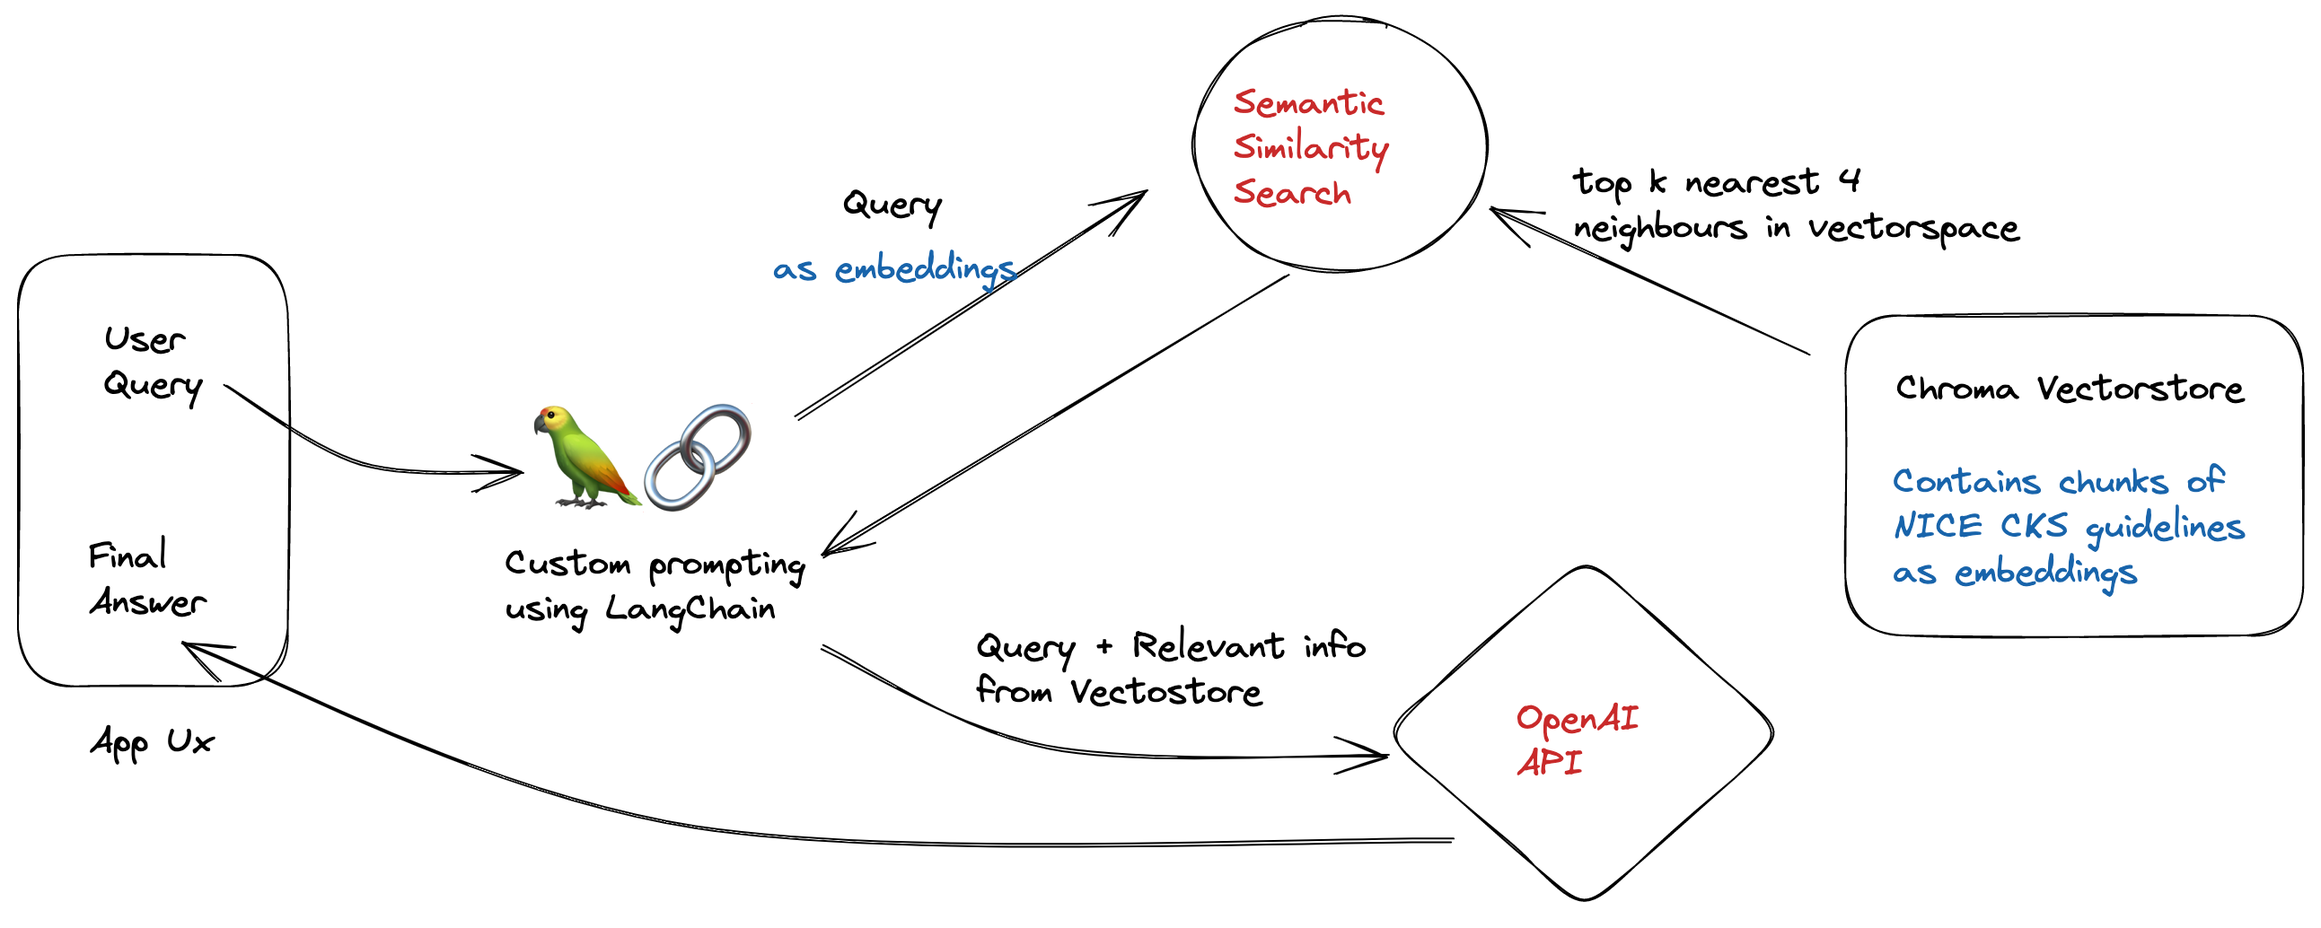
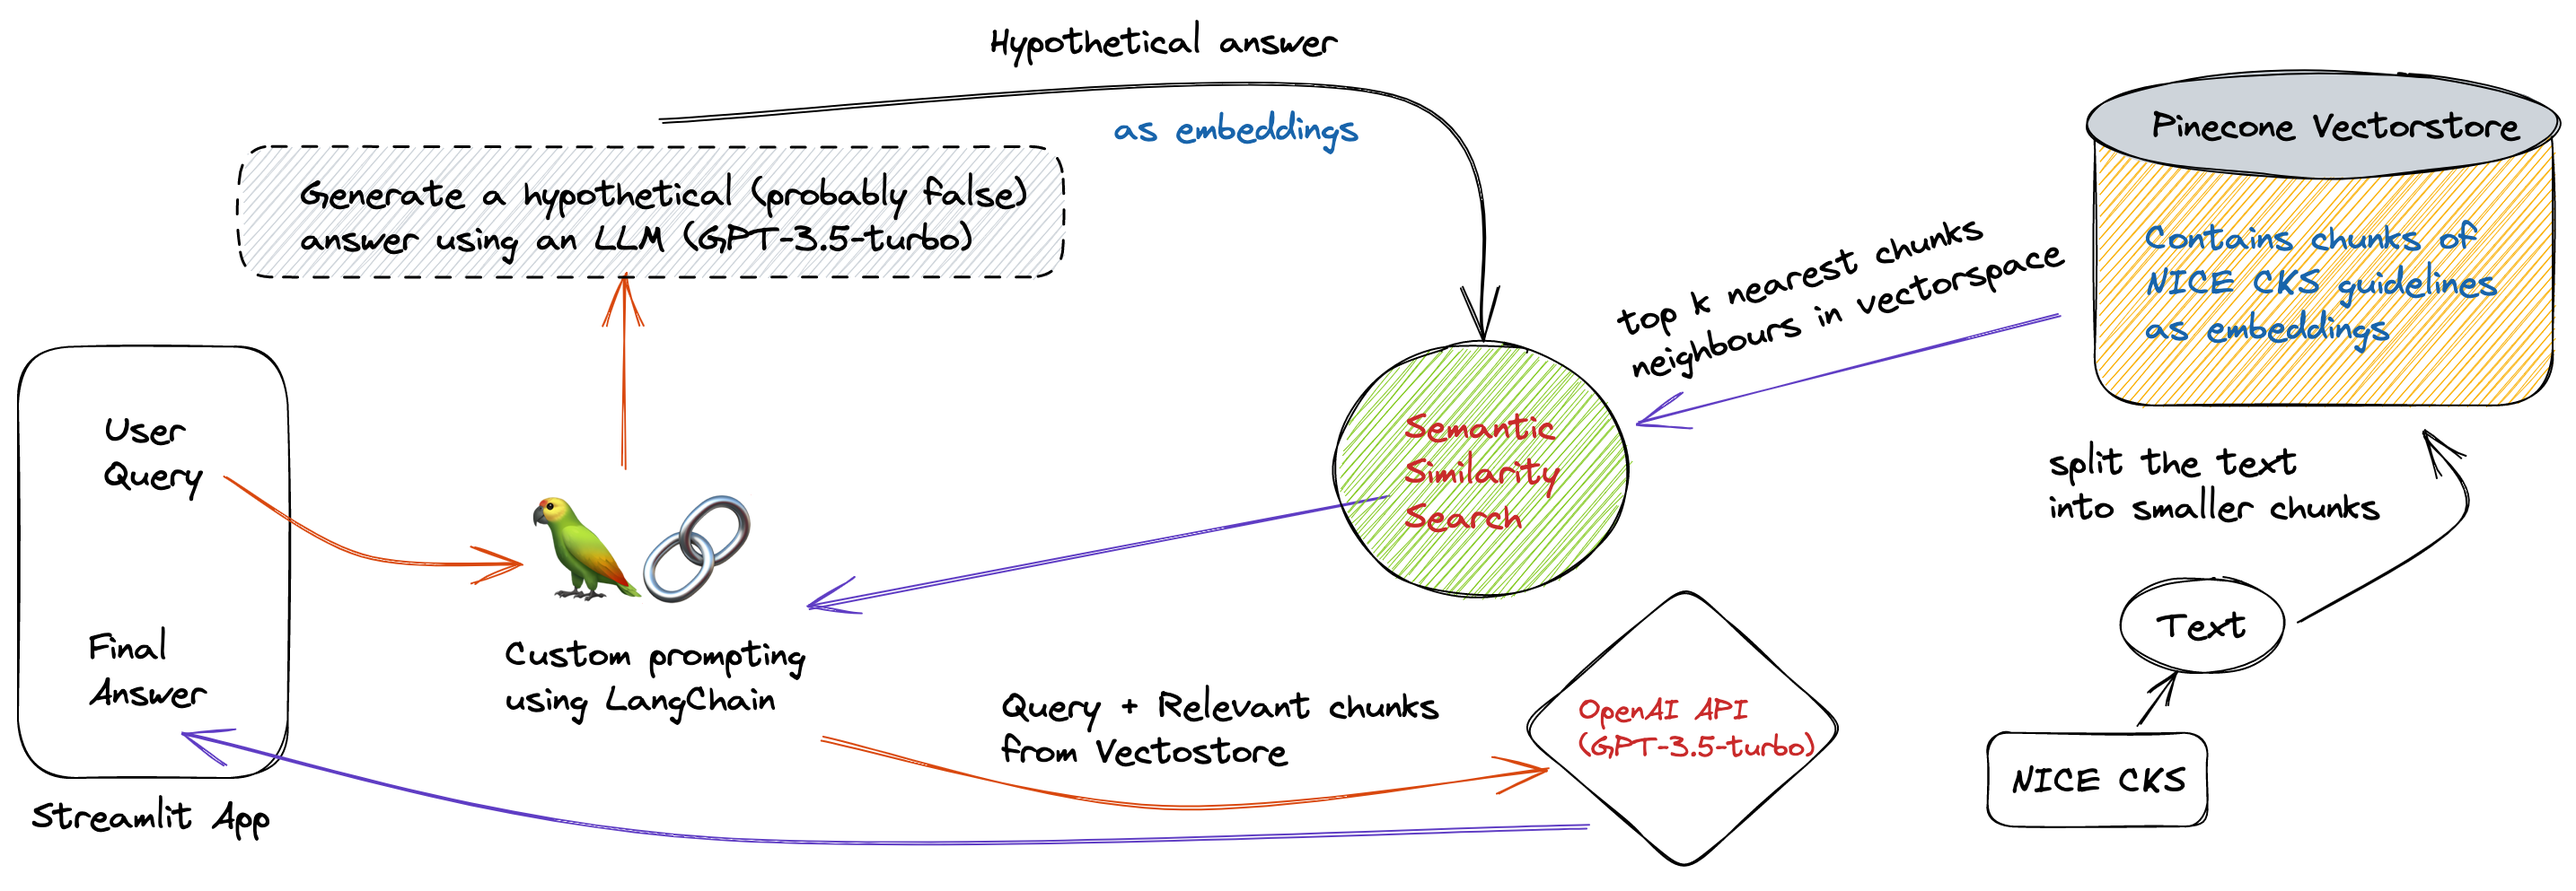
Update Readme & Image
Implemented HYDE and improved Readme

diff --git a/README.md b/README.md
@@ -27,10 +27,17 @@ To deploy this project locally, ensure that python 3.10 is installed run
 ```
 ## 📚 Technical description
 
+📄 The app implements the following academic papers:
+
+- [In-Context Retrieval-Augmented Language Models](https://arxiv.org/abs/2302.00083) aka **RALM**
+  - The idea of retrieval augmented generation is that when given a question you first do a retrieval step to fetch any relevant documents (in this case, [NICE Clinical Knowledge Summaries](https://cks.nice.org.uk/)). You then pass those documents, along with the original question, to the language model and have it generate a response
+- [Precise Zero-Shot Dense Retrieval without Relevance Labels](https://arxiv.org/abs/2212.10496) aka **HyDE** (Hypothetical Document Embeddings)
+  - HyDE is an embedding technique that takes queries, generates a hypothetical answer, and then embeds that generated document to fetch documents more accurately
+
 Question-Answering has the following steps, all handled by [RetrievalQAWithSourcesChain](https://python.langchain.com/en/latest/modules/chains/index_examples/vector_db_qa_with_sources.html):
 
-1. Given a user question, look up relevant documents from the vectorstore using Embeddings and similarity search.
-2. Determine what a standalone question would be (using GPT-3.5-turbo).
-3. Pass the standalone question and relevant documents to GPT-3.5-turbo to generate a final answer.
+1. Given a user question, create a hypothetical answer (possibly false, with factual inaccuracies) and then store that as Embeddings.
+2. Look up relevant documents from the vectorstore using Embeddings and a similarity search.
+3. Pass the user question and relevant documents to GPT-3.5-turbo to generate a final answer.
 
 ![How it works](hiw.png)
